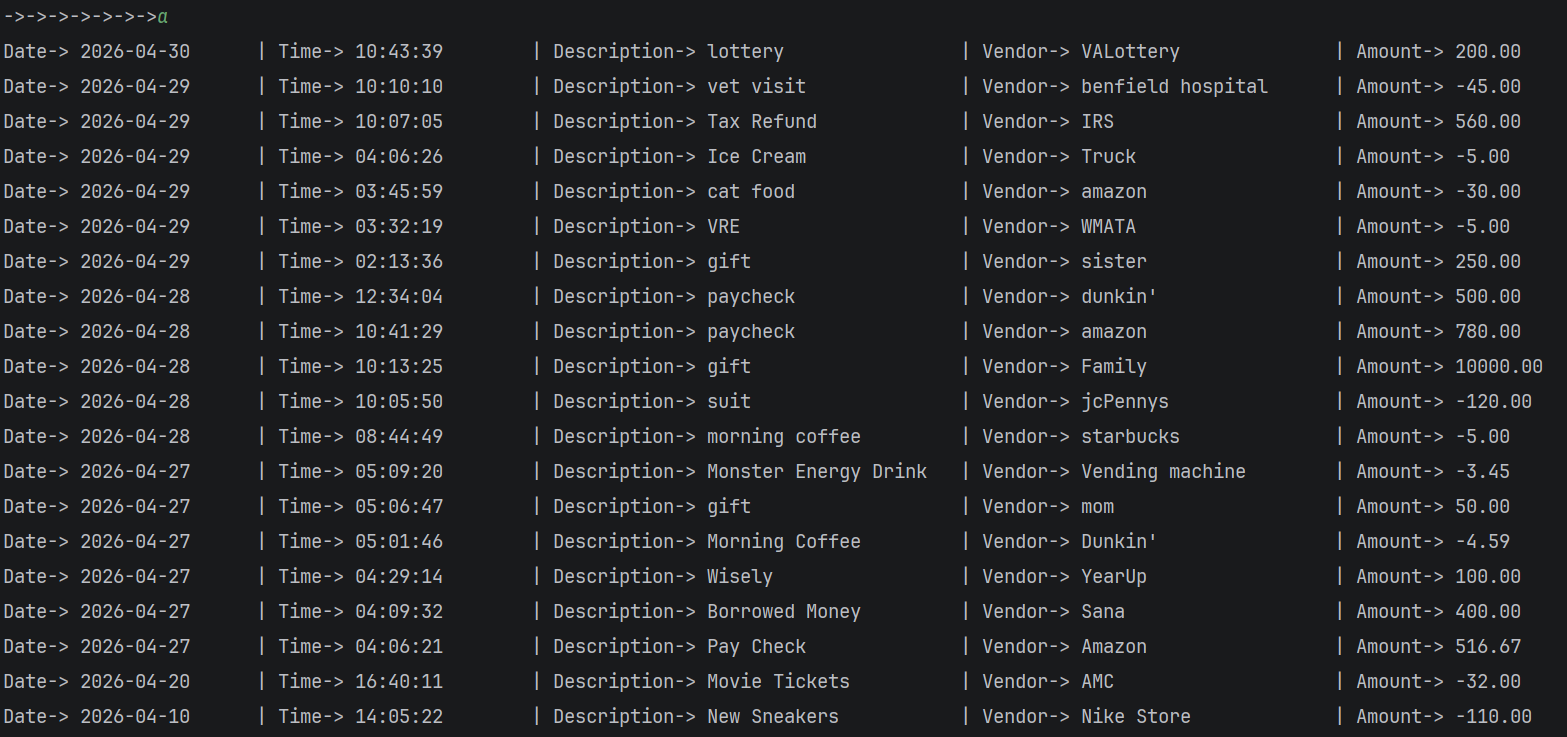
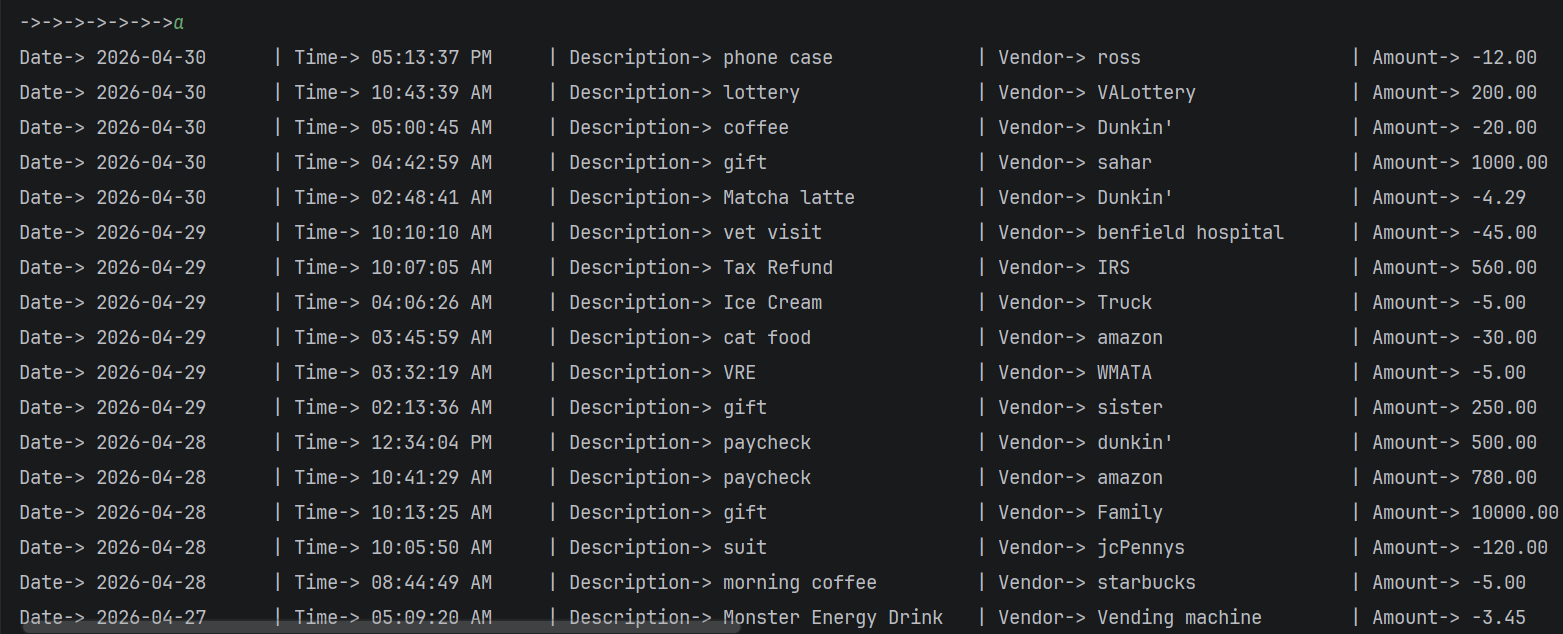
fixed the time bug started storing data in 24h format and parsing into am pm for user readability

diff --git a/src/main/java/com/pluralsight/Transaction.java b/src/main/java/com/pluralsight/Transaction.java
@@ -2,6 +2,7 @@ package com.pluralsight;
 
 import java.time.LocalDate;
 import java.time.LocalTime;
+import java.time.format.DateTimeFormatter;
 
 public class Transaction {
     private LocalDate date;
@@ -40,7 +41,9 @@ public class Transaction {
 
     @Override
     public String toString() {
-        return String.format("Date-> %-15s | Time-> %-15s | Description-> %-22s | Vendor-> %-22s | Amount-> %-15.2f",date ,time
+        DateTimeFormatter timeFormatter = DateTimeFormatter.ofPattern("hh:mm:ss a");
+        String formattedTime = time.format(timeFormatter);
+        return String.format("Date-> %-15s | Time-> %-15s | Description-> %-22s | Vendor-> %-22s | Amount-> %-15.2f",date ,formattedTime
                 ,description
                 , vendor, amount);
 

diff --git a/src/main/java/com/pluralsight/Main.java b/src/main/java/com/pluralsight/Main.java
@@ -60,7 +60,7 @@ public class Main {
             double amount = Console.promptForDouble("Enter the total amount paid(No $ sign): ");
             LocalDate date = LocalDate.now();
             LocalTime time = LocalTime.now();
-            DateTimeFormatter fmt = DateTimeFormatter.ofPattern("hh:mm:ss");
+            DateTimeFormatter fmt = DateTimeFormatter.ofPattern("HH:mm:ss");
             LocalTime formattedTime = LocalTime.parse(time.format(fmt));
             writeToLedgerCsv(date,formattedTime,description, payer,Math.abs(amount) * -1);
 

diff --git a/src/main/java/com/pluralsight/Ledger.java b/src/main/java/com/pluralsight/Ledger.java
@@ -5,6 +5,7 @@ import java.io.FileReader;
 import java.io.IOException;
 import java.time.LocalDate;
 import java.time.LocalTime;
+import java.time.format.DateTimeFormatter;
 import java.util.ArrayList;
 import java.util.Comparator;
 

diff --git a/README.md b/README.md
@@ -36,19 +36,20 @@
 ### **Input Validation & Stability**
 * **Prompt Management:** Reads all input as a `String` first to clear the Scanner buffer and prevent "skipped" prompts (Scanner Ghosting).
 * **Exception Handling:** Employs `try-catch` blocks during data conversion. If an invalid format is entered (e.g., text instead of a date), the program re-prompts the user instead of terminating.
+* **User-Centric Formatting:** Converts internal 24-hour time data into a 12-hour AM/PM format for display, improving ledger readability without compromising data storage integrity.
 
 ---
 
 ## Application Preview
 
 ### Navigation & Menu
-| Home Screen | Ledger Menu |                     Reports Menu                     |
-| :---: | :---: |:----------------------------------------------------:|
+|                     Home Screen                     |                     Ledger Menu                     |                     Reports Menu                     |
+|:---------------------------------------------------:|:---------------------------------------------------:|:----------------------------------------------------:|
 | <img src="screenshots/home_screen.png" width="250"> | <img src="screenshots/ledger_menu.png" width="250"> | <img src="screenshots/reports_menu.png" width="250"> |
 
 ### Entry & Search
-|                      Add Transaction                      | Custom Search | Ledger Display |
-|:---------------------------------------------------------:| :---: | :---: |
+|                      Add Transaction                      |                     Custom Search                     |                     Ledger Display                     |
+|:---------------------------------------------------------:|:-----------------------------------------------------:|:------------------------------------------------------:|
 | <img src="screenshots/input_transaction.png" width="250"> | <img src="screenshots/custom_search.png" width="250"> | <img src="screenshots/display_ledger.png" width="250"> |
 
 ---
